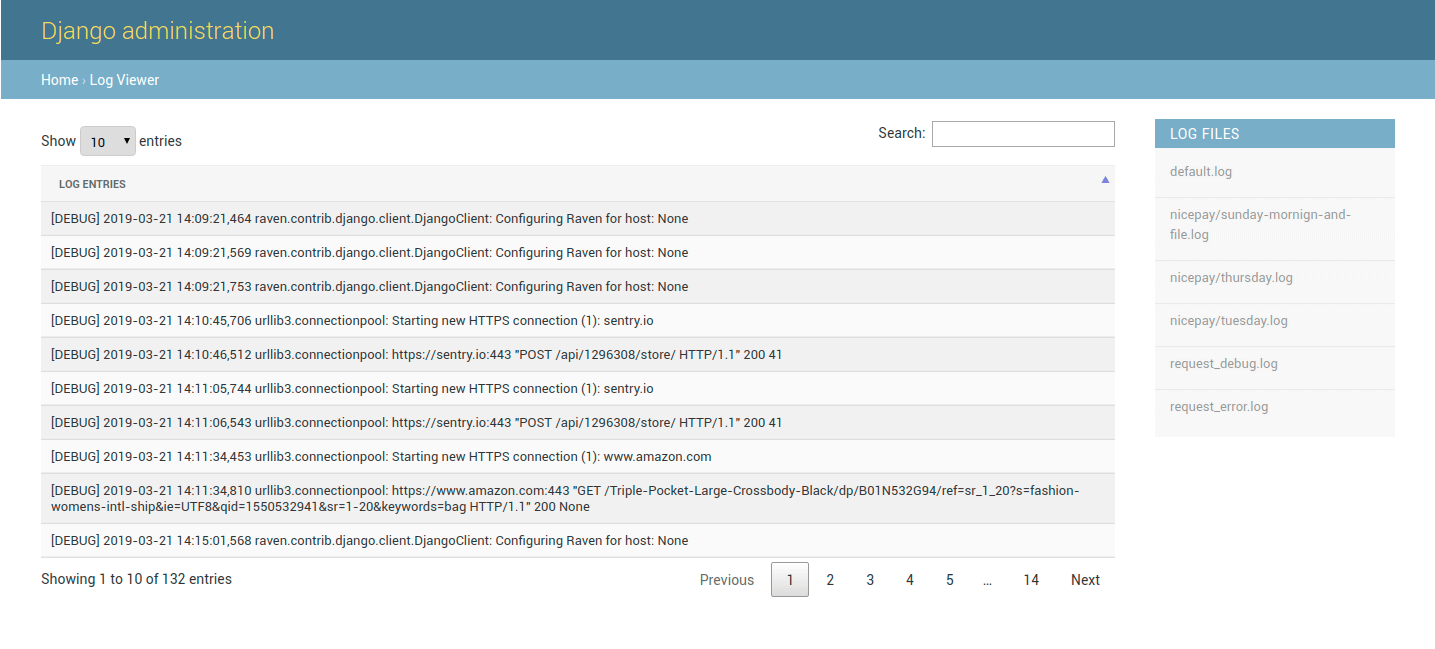
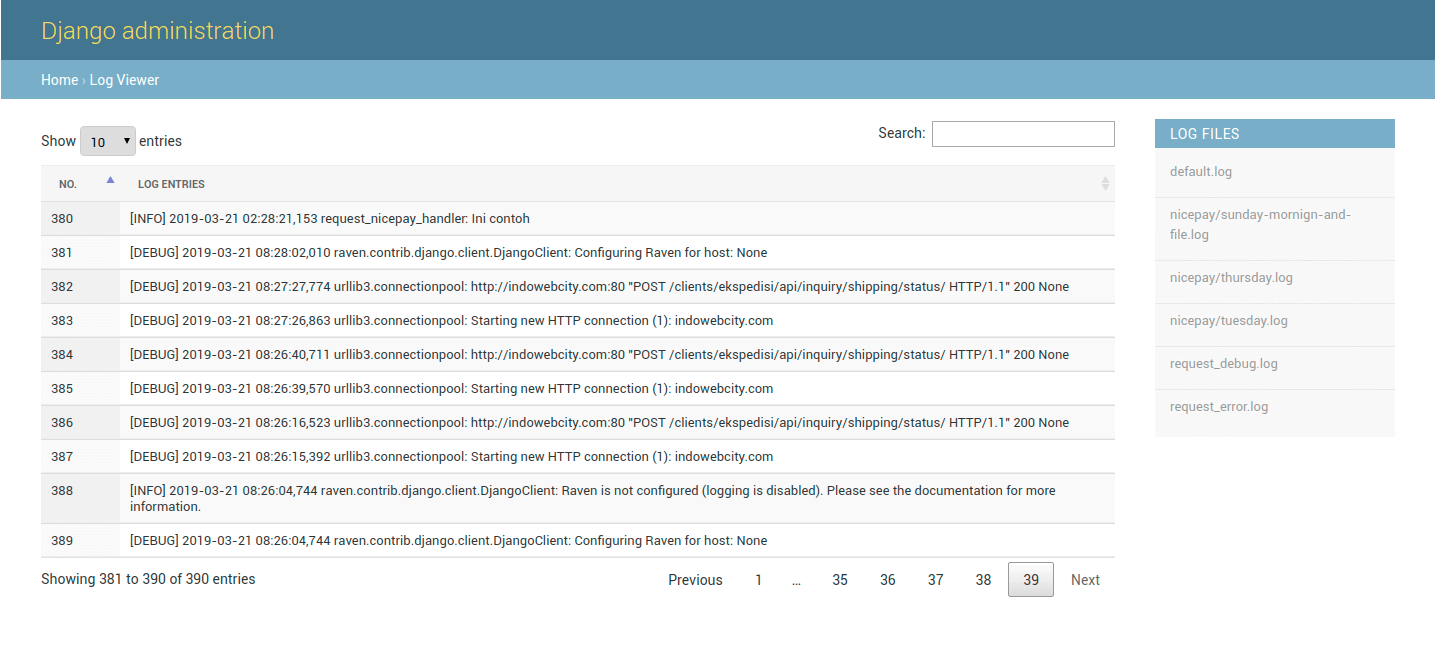
support number & translation id

diff --git a/log_viewer/templates/log_viewer/logfile_viewer.html b/log_viewer/templates/log_viewer/logfile_viewer.html
@@ -41,8 +41,14 @@
           <div class="results">
             <table id="log-entries" class="display" style="width:100%">
               <thead>
-                <tr><th scope="col">{% trans 'Log entries' %}</th></tr>
+                <tr>
+                  <th scope="col">{% trans 'No.' %}</th>
+                  <th scope="col">{% trans 'Log entries' %}</th>
+                </tr>
               </thead>
+              <tbody>
+                <tr><td colspan="2">{% trans 'No entries!' %}</td></tr>
+              </tbody>
             </table>
           </div>
         </form>
@@ -54,6 +60,7 @@
     function loadDataTableTrigger(table_name, url_json) {
       $(table_name).DataTable({
         pageLength: '{{ page_length }}',
+        columns: [{data: 0}, {data: 1}],
         ajax: function (data, callback, settings) {
           $.ajax({
             type: 'get',
@@ -62,8 +69,8 @@
                 const new_logs = [];
                 var next_page = response.next_page || 1;
 
-                response.logs.forEach(function(text){
-                  new_logs.push([text])
+                response.logs.forEach(function(text, numb, logs){
+                  new_logs.push([numb, text])
                 });
 
                 callback({

diff --git a/runtests.py b/runtests.py
@@ -25,8 +25,7 @@ settings.configure(
     TEMPLATES=[{
         'BACKEND': 'django.template.backends.django.DjangoTemplates',
         'DIRS': [
-            os.path.join(BASE_DIR, 'django-markdown-editor/martor/templates'),
-            os.path.join(BASE_DIR, 'django-markdown-editor/martor/tests/templates'),
+            os.path.join(BASE_DIR, 'django-log-viewer/log_viewer/templates'),
         ],
         'APP_DIRS': True,
         'OPTIONS': {

diff --git a/setup.py b/setup.py
@@ -3,7 +3,7 @@
 
 from setuptools import (setup, find_packages)
 
-__version__ = '1.0.3'
+__version__ = '1.0.4'
 
 setup(
     name='django-log-viewer',

diff --git a/README.rst b/README.rst
@@ -4,12 +4,12 @@ Django Log Viewer
 
 |pypi version| |license| |build status|
 
-``Django Log Viewer`` allows you to read log files in the admin page.
+``Django Log Viewer`` allows you to read log files in the admin page by using ``DataTables``.
 This project was modified from: https://bitbucket.org/inkalabsinc/django-log-viewer
 
 -----------------
 
-.. image:: https://i.imgur.com/sGRlW9b.png
+.. image:: https://i.imgur.com/2BFzilV.png
 
 
 Quick start
